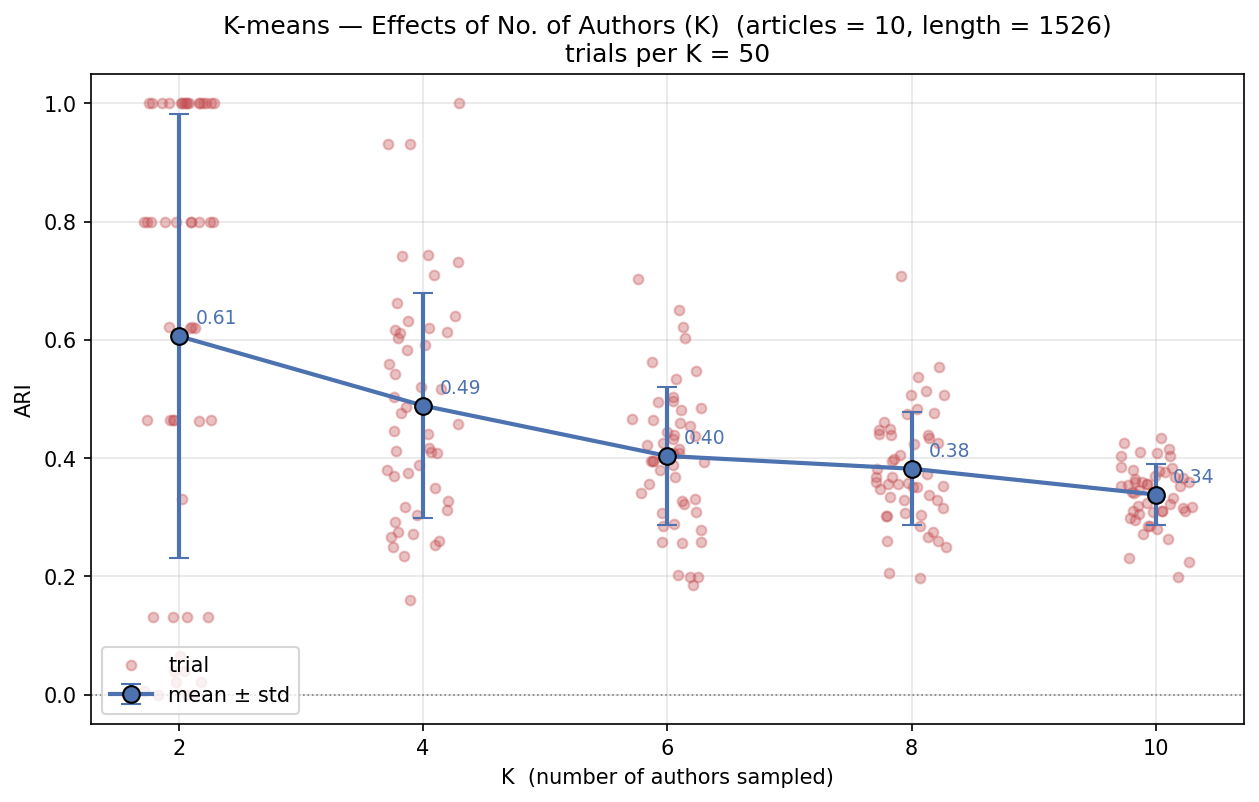
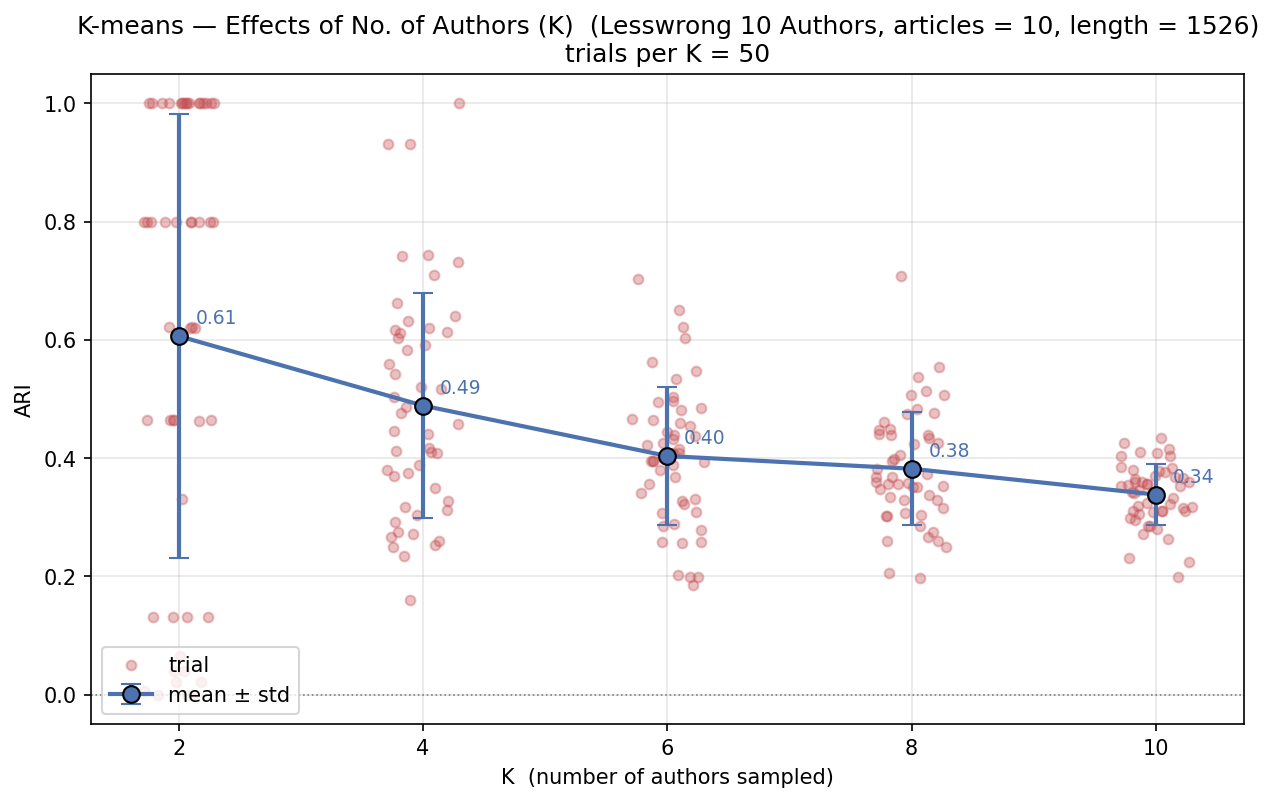
Add dataset name to effect_of_k graph

diff --git a/problems/kmeans/effect_of_k.py b/problems/kmeans/effect_of_k.py
@@ -201,7 +201,7 @@ def main() -> None:
         results, FIG_PATH,
         title=(
             f"K-means — Effects of No. of Authors (K)  "
-            f"(articles = {M_PER_AUTHOR}, length = {DOC_LENGTH})"
+            f"(Lesswrong 10 Authors, articles = {M_PER_AUTHOR}, length = {DOC_LENGTH})"
         ),
     )
     print(f"\nSaved -> {FIG_PATH.relative_to(_PROJECT_ROOT)}")